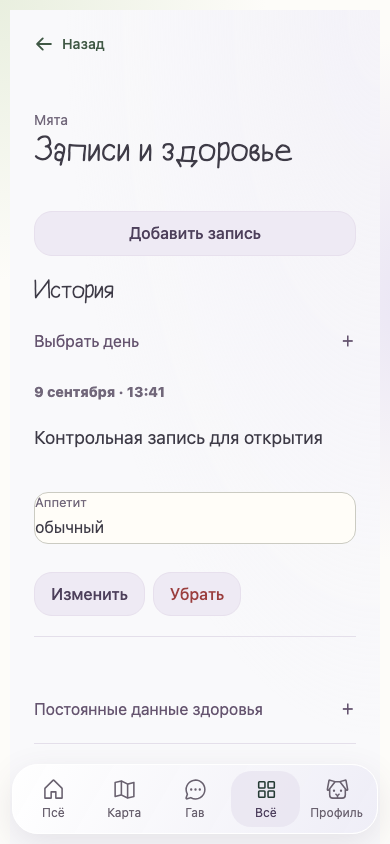
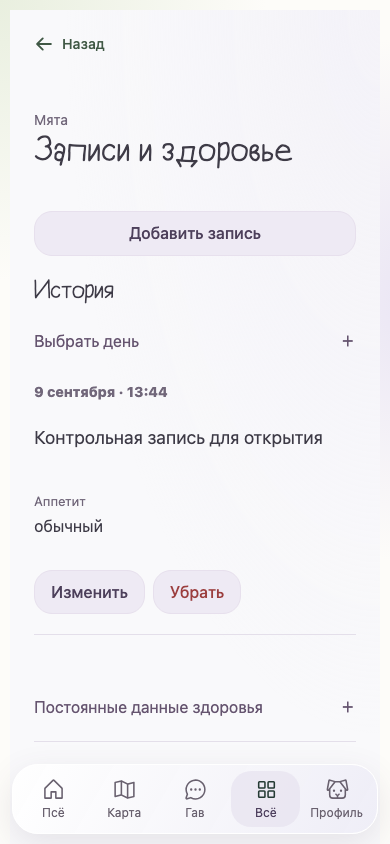
Remove legacy metric grid container and verify final health surface

diff --git a/components/health/HealthTimeline.module.css b/components/health/HealthTimeline.module.css
@@ -42,3 +42,4 @@
 :global(body.companion-app main.app-canvas) .screen :global(.health-observation-grid) div {background:transparent!important;border:0!important;border-radius:0!important;box-shadow:none!important;padding:0!important;}
 :global(body.companion-app main.app-canvas) .screen :global(.health-observation-grid) dt {font:400 13px/1.4 var(--font-pouf)!important;color:#71677a!important;}
 :global(body.companion-app main.app-canvas) .screen :global(.health-observation-grid) dd {font:400 16px/1.5 var(--font-pouf)!important;color:#3e3b47!important;margin:4px 0!important;}
+:global(body.companion-app main.app-canvas) .screen :global(.health-observation-grid) {background:transparent!important;border:0!important;border-radius:0!important;box-shadow:none!important;padding:0!important;}

diff --git a/docs/unified-release-20260909/HEALTH-FLOW.md b/docs/unified-release-20260909/HEALTH-FLOW.md
@@ -32,3 +32,5 @@ A final cache review separated the paged health feed from bootstrap's limited pr
 Final immutable build: `/tmp/pso-u03-pagination-build.log`.15 browser cases passed:6 expanded records paths,1 equal-time/cache boundary,4 interaction and4 assistant regressions. Final targeted19 tests pass; latest lint215/220 and contracts pass. The full QA baseline before final primary-fact/cache refinements was213 tests, not a claim that a new full suite ran after every refinement. No unresolved failure in these checks.
 
 Visual-only follow-up after85bd09c: actual metric rows still inherited a legacy beige box/heavy weight. Scoped overrides remove that box and set readable normal-weight values. Rebuild and dedicated Chromium/WebKit390 computed-style+viewport checks passed; no functional code changed after the15-case functional run. Both CI checks on85bd09c passed.
+
+Final visual verification also checks the parent metric grid, not just its cells: the inherited box came from both levels. Latest grid build and both-engine390 visual checks passed; fresh viewport image inspected and sent with an explicit synthetic/local caption.
